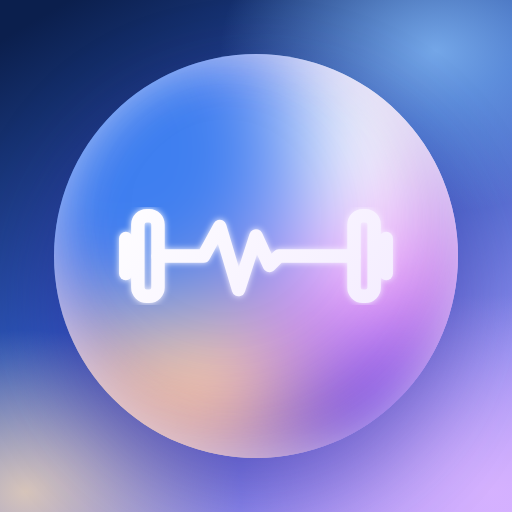
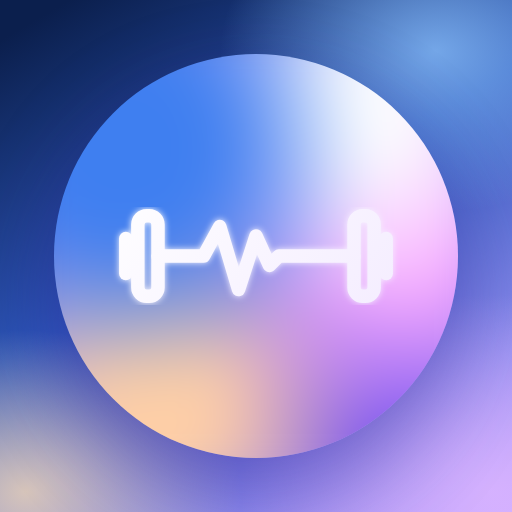
Bolla senza bordo bianco in avvio e icona (Daniele v65, Rosa v53, Umberto v45)

Changed region(s): [[0.75, 0.1875, 0.9062, 0.6875], [0.0938, 0.0938, 0.5312, 0.5938], [0.2188, 0.75, 0.5625, 0.9062]]

diff --git a/rosa/sw.js b/rosa/sw.js
@@ -1,7 +1,7 @@
 // Taccuino di Rosa: funziona anche senza rete. Cambia VERSIONE a ogni aggiornamento dell'app.
 // Vive in una cartella sua, con una memoria sua: tocca solo le copie che cominciano con PREFISSO.
 const PREFISSO = "taccuino-rosa-";
-const VERSIONE = PREFISSO + "v52";
+const VERSIONE = PREFISSO + "v53";
 const FILE = ["./", "index.html", "manifest.webmanifest", "icon-192.png", "icon-512.png", "img/allenamento.jpg", "img/alimentazione.jpg", "font/archivo.woff2", "img/pasti/col.jpg", "img/pasti/spu.jpg", "img/pasti/pra.jpg", "img/pasti/mer.jpg", "img/pasti/cen.jpg", "img/pasti/prep.jpg", "img/rep/bevande.jpg", "img/rep/carne.jpg", "img/rep/dolci.jpg", "img/rep/frutta.jpg", "img/rep/frutta_secca.jpg", "img/rep/latticini.jpg", "img/rep/legumi.jpg", "img/rep/mio.jpg", "img/rep/olio.jpg", "img/rep/pane.jpg", "img/rep/pasta.jpg", "img/rep/patate.jpg", "img/rep/pesce.jpg", "img/rep/polveri.jpg", "img/rep/resto.jpg", "img/rep/salumi.jpg", "img/rep/uova.jpg", "img/rep/verdura.jpg"]
   // foto degli esercizi (img/es): servono anche senza rete, in palestra
   .concat("abductor-1 abductor-2 bulgaro-1 bulgaro-2 chest-press-1 chest-press-2 dead-bug-1 dead-bug-2 face-pull-1 face-pull-2 goblet-1 goblet-2 hip-thrust-1 hip-thrust-2 lat-1 lat-2 laterali-man-1 laterali-man-2 leg-curl-1 leg-curl-2 leg-press-1 leg-press-2 lento-man-1 lento-man-2 pallof-1 pallof-2 ponte-fem-1 ponte-fem-2 posteriori-seduta-1 posteriori-seduta-2 pulley-1 pulley-2 rematore-man-1 rematore-man-2 rumeno-man-1 rumeno-man-2".split(" ").map((x) => "img/es/" + x + ".jpg"));

diff --git a/umberto/sw.js b/umberto/sw.js
@@ -1,7 +1,7 @@
 // Taccuino (cartella umberto): funziona anche senza rete. Cambia VERSIONE a ogni aggiornamento dell'app.
 // Vive in una cartella sua, con una memoria sua: tocca solo le copie che cominciano con PREFISSO.
 const PREFISSO = "taccuino-umberto-";
-const VERSIONE = PREFISSO + "v44";
+const VERSIONE = PREFISSO + "v45";
 const FILE = ["./", "index.html", "manifest.webmanifest", "icon-192.png", "icon-512.png", "img/allenamento.jpg", "img/alimentazione.jpg", "font/archivo.woff2", "img/pasti/col.jpg", "img/pasti/spu.jpg", "img/pasti/pra.jpg", "img/pasti/mer.jpg", "img/pasti/cen.jpg", "img/pasti/prep.jpg", "img/rep/bevande.jpg", "img/rep/carne.jpg", "img/rep/dolci.jpg", "img/rep/frutta.jpg", "img/rep/frutta_secca.jpg", "img/rep/latticini.jpg", "img/rep/legumi.jpg", "img/rep/mio.jpg", "img/rep/olio.jpg", "img/rep/pane.jpg", "img/rep/pasta.jpg", "img/rep/patate.jpg", "img/rep/pesce.jpg", "img/rep/polveri.jpg", "img/rep/resto.jpg", "img/rep/salumi.jpg", "img/rep/uova.jpg", "img/rep/verdura.jpg",
   "img/trazione-basso.png", "img/trazione-alto.png", "img/foto-alto.jpg", "img/foto-da-dietro.jpg"]
   // foto degli esercizi (img/es): servono anche senza rete, in palestra

diff --git a/sw.js b/sw.js
@@ -1,6 +1,6 @@
 // Taccuino palestra: funziona anche senza rete. Cambia VERSIONE a ogni aggiornamento dell'app.
 // Cancella solo le proprie copie vecchie (taccuino-v…): le altre app della stessa origine, come rosa/, hanno le loro.
-const VERSIONE = "taccuino-v64";
+const VERSIONE = "taccuino-v65";
 const FILE = ["./", "index.html", "manifest.webmanifest", "icon-192.png", "icon-512.png", "img/allenamento.jpg", "img/alimentazione.jpg", "font/archivo.woff2", "img/pasti/col.jpg", "img/pasti/spu.jpg", "img/pasti/pra.jpg", "img/pasti/mer.jpg", "img/pasti/cen.jpg", "img/pasti/prep.jpg", "img/rep/bevande.jpg", "img/rep/carne.jpg", "img/rep/dolci.jpg", "img/rep/frutta.jpg", "img/rep/frutta_secca.jpg", "img/rep/latticini.jpg", "img/rep/legumi.jpg", "img/rep/mio.jpg", "img/rep/olio.jpg", "img/rep/pane.jpg", "img/rep/pasta.jpg", "img/rep/patate.jpg", "img/rep/pesce.jpg", "img/rep/polveri.jpg", "img/rep/resto.jpg", "img/rep/salumi.jpg", "img/rep/uova.jpg", "img/rep/verdura.jpg",
   "img/trazione-basso.png", "img/trazione-alto.png", "img/foto-alto.jpg", "img/foto-da-dietro.jpg"]
   // foto degli esercizi (img/es): servono anche senza rete, in palestra

diff --git a/index.html b/index.html
@@ -760,6 +760,9 @@ svg.corpo .an { stroke:#FF6B6B; stroke-width:3.2; } svg.corpo .np { fill:#FF6B6B
 #avvio b { font-size:42px; letter-spacing:-.5px; color:#fff; text-shadow:0 2px 12px rgba(40,20,120,.4); }
 /* v64: l'avvio resta un attimo di più (1 s invece di 0,65) e sfuma più morbido (0,5 s): si vede il passaggio da Arise all'app */
 #avvio { animation:avvioVia .5s ease-in-out 1s forwards; }
+/* v65: bolla senza contorni (niente bordo né alone bianco al bordo, scelta di Daniele): solo i colori, che arrivano fino al bordo */
+#avvio .bollaA { box-shadow:0 26px 60px rgba(50,30,150,.45); }
+#avvio .bollaA::after { display:none; }
 </style>
 </head>
 <body>

diff --git a/rosa/index.html b/rosa/index.html
@@ -784,6 +784,9 @@ svg.corpo .an { stroke:#FF6B6B; stroke-width:3.2; } svg.corpo .np { fill:#FF6B6B
 #avvio b { font-size:42px; letter-spacing:-.5px; color:#fff; text-shadow:0 2px 12px rgba(40,20,120,.4); }
 /* v64: l'avvio resta un attimo di più (1 s invece di 0,65) e sfuma più morbido (0,5 s): si vede il passaggio da Arise all'app */
 #avvio { animation:avvioVia .5s ease-in-out 1s forwards; }
+/* v65: bolla senza contorni (niente bordo né alone bianco al bordo, scelta di Daniele): solo i colori, che arrivano fino al bordo */
+#avvio .bollaA { box-shadow:0 26px 60px rgba(50,30,150,.45); }
+#avvio .bollaA::after { display:none; }
 </style>
 </head>
 <body>

diff --git a/umberto/index.html b/umberto/index.html
@@ -760,6 +760,9 @@ svg.corpo .an { stroke:#FF6B6B; stroke-width:3.2; } svg.corpo .np { fill:#FF6B6B
 #avvio b { font-size:42px; letter-spacing:-.5px; color:#fff; text-shadow:0 2px 12px rgba(40,20,120,.4); }
 /* v64: l'avvio resta un attimo di più (1 s invece di 0,65) e sfuma più morbido (0,5 s): si vede il passaggio da Arise all'app */
 #avvio { animation:avvioVia .5s ease-in-out 1s forwards; }
+/* v65: bolla senza contorni (niente bordo né alone bianco al bordo, scelta di Daniele): solo i colori, che arrivano fino al bordo */
+#avvio .bollaA { box-shadow:0 26px 60px rgba(50,30,150,.45); }
+#avvio .bollaA::after { display:none; }
 </style>
 </head>
 <body>
